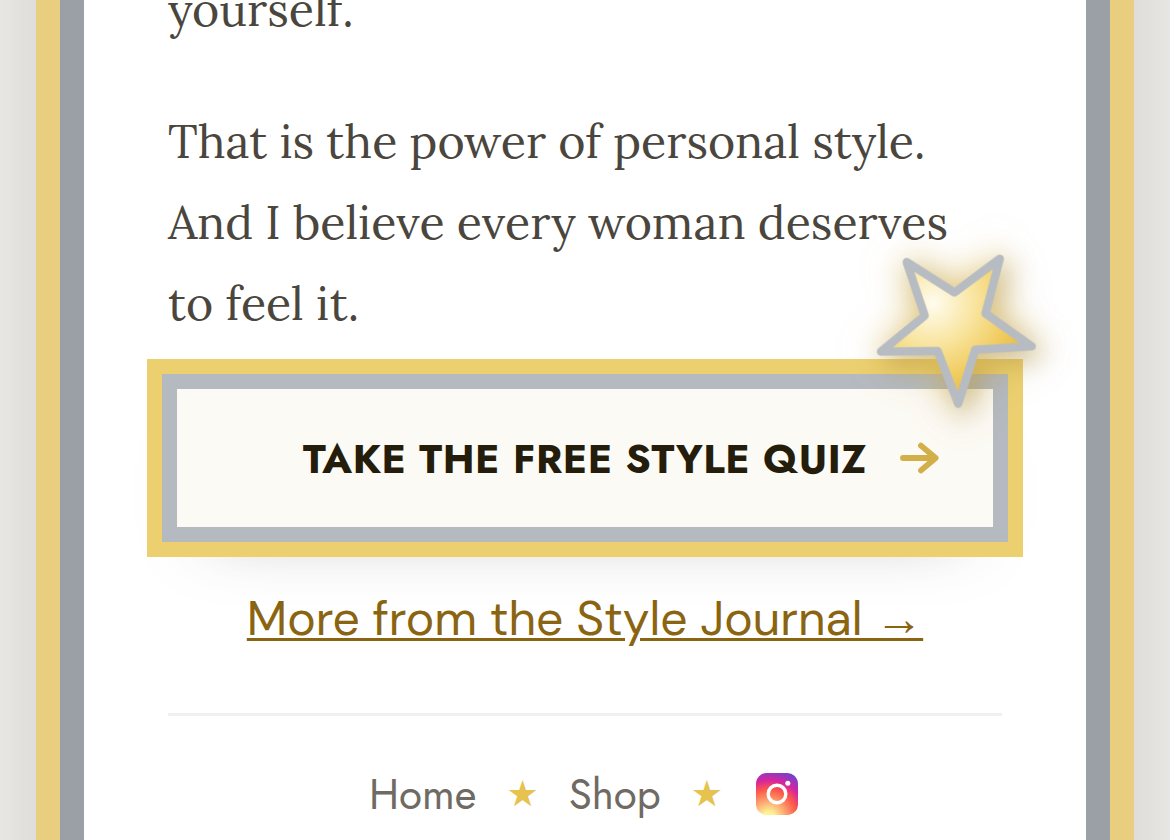
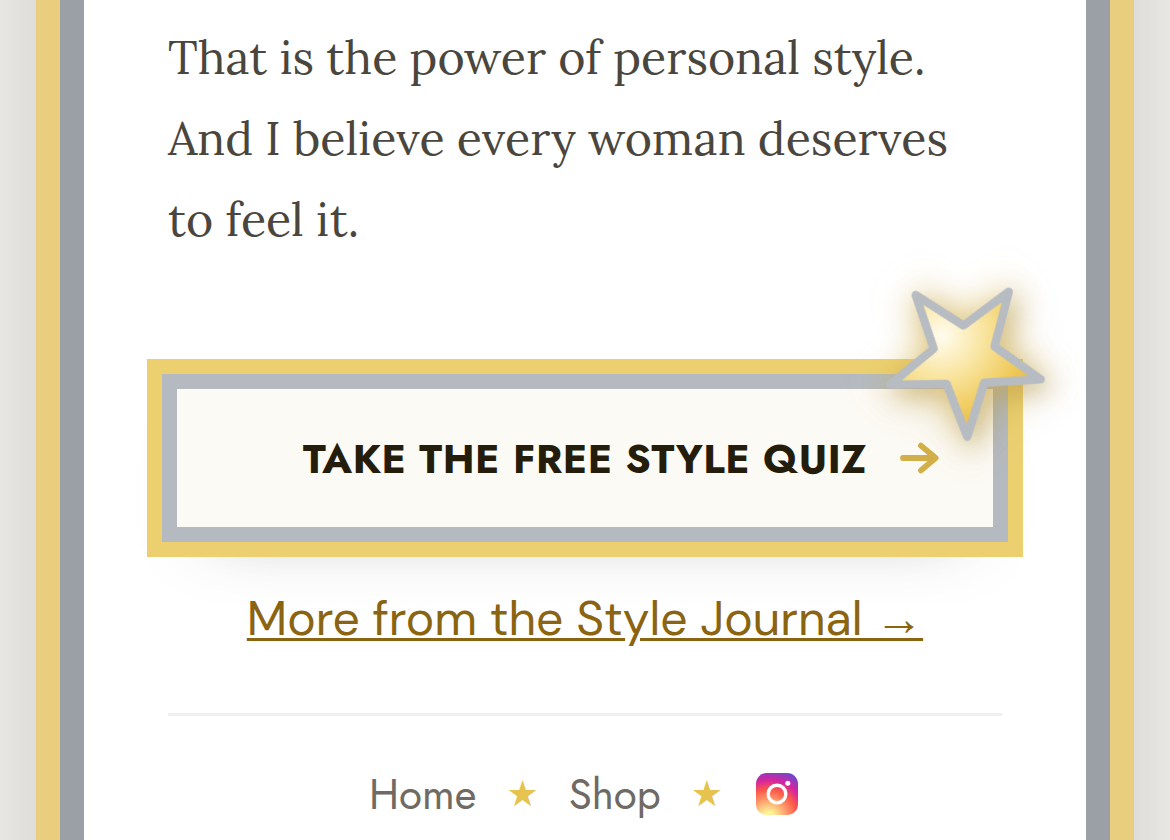
Balance article 2's title, and her star adjustment (down 3px, right 3px)
Two things off her live screenshots.

THE TITLE WRAP WAS A BUG. #s-journal .story-title and #s-journal-hub .story-title
carry text-wrap:balance and s-journal-fall-florida was never added, so article 1
balanced fine while article 2 stranded "Degrees" alone on a third line. Fixed,
with a note at the rule that this is the one journal rule the JOURNAL_ARTICLES
registry does NOT drive, so a new article must be added here by hand.
Measured at 390px: 3 lines with 4 words on the last, where it was 1.

Her words, unchanged either way: the visible H1 keeps "Still 90 Degrees" and only
the metaTitle Google displays is the shorter "When It's Hot" form, because 67
characters is truncated in search. Nothing was reversed there.

THE STAR is at her numbers from the live page: top -41px, right -21px.

And the suite's clearance check drops its minimum-gap number entirely. It now
asserts only that the two inks do not OVERLAP. Holding a minimum is what pushed
the star to -52px and got rejected as "too high"; the position is hers and the
test's job is to catch a real collision, not to second-guess her eye. Written at
the assertion so it is not reintroduced.

Green: jrnlcta 128, 0 failed.

Claude-Session: https://claude.ai/code/session_01FCraBzPUQkAM2J2WA6cyEm

diff --git a/styles.css b/styles.css
@@ -1908,7 +1908,7 @@ body.menu-open .menu-panel{display:block}
    ⚠ Do NOT push it further RIGHT to solve this. Horizontal was never the
    constraint (46px of room to the screen edge at right:-18), and the arrow sits
    inside the button, so moving right walks the star toward the edge for nothing. */
-.hm-cta.jrnl-quiz .hm-cta-seal{top:-44px}
+.hm-cta.jrnl-quiz .hm-cta-seal{top:-41px;right:-21px}
 /* At Display Zoom the label genuinely cannot fit on one line, and shrinking the
    font is the wrong trade for an 18-to-80 audience (the standing rule). Two
    balanced lines instead, and the arrow rejoins the flow so nothing overhangs. */
@@ -1921,7 +1921,12 @@ body.menu-open .menu-panel{display:block}
 .jrnl-h2:first-of-type{margin-top:8px}
 /* .jrnl-cta RETIRED 2026-09-01: the Journal quiz button became the home page CTA
    (her call: same squared frame, star, arrow). Rule deleted rather than left dead. */
-#s-journal .story-title,#s-journal-hub .story-title{text-wrap:balance}
+/* ⚠ EVERY JOURNAL SCREEN, and the list is the bug: article #2 (s-journal-fall-florida)
+   was missing here, so its title wrapped with one word stranded on a third line while
+   article #1's balanced fine. A new article MUST be added to this selector -- it is the
+   one journal rule that is NOT driven by the JOURNAL_ARTICLES registry. */
+#s-journal .story-title,#s-journal-hub .story-title,
+#s-journal-fall-florida .story-title{text-wrap:balance}
 
 /* Style Journal hub (built 2026-08-26): the article list is generated in JS
    from JOURNAL_ARTICLES, so adding an article is one entry in that array --
